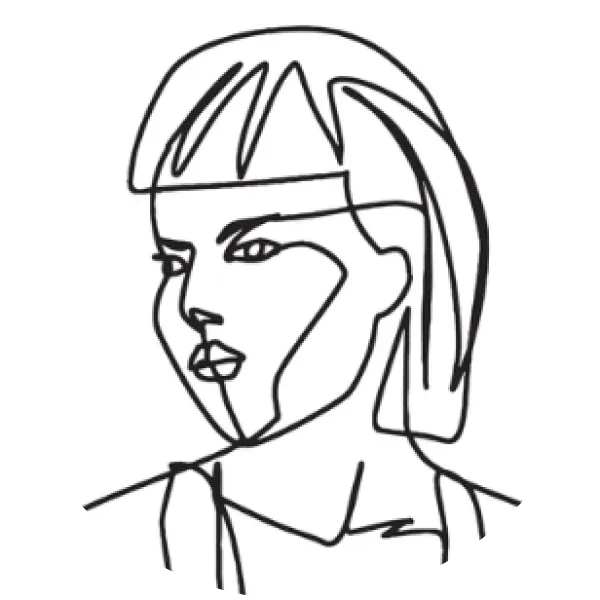
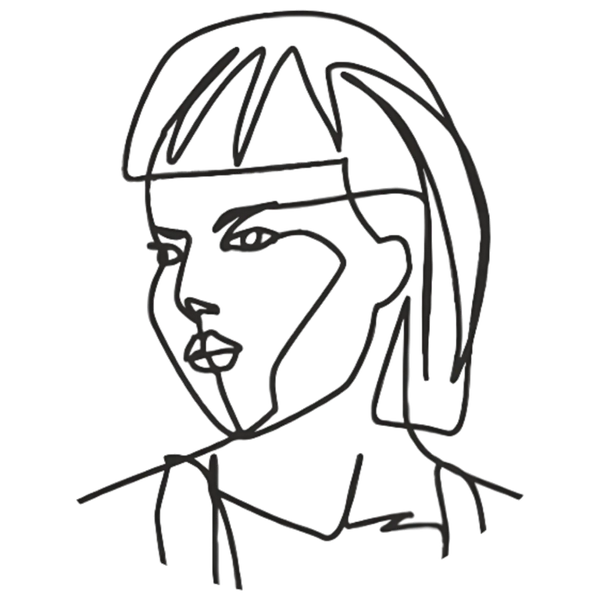
Use upscaled drawings and link LinkedIn in footer
- Replace mantis, Melp and Summer illustrations with the new upscaled art,
  converted to transparent line art and exported at 2x for sharp retina display
  (mantis re-framed to the original proportions so the hero layout is unchanged)
- Footer "LinkedIn" now opens linkedin.com/company/mantis-studio-ux in a new tab

Claude-Session: https://claude.ai/code/session_01UJs3XK3ELJzb1o4H9GKvfi

Changed region(s): [[0.12, 0.0, 0.87, 0.99]]

diff --git a/src/App.tsx b/src/App.tsx
@@ -158,7 +158,7 @@ export default function App() {
 
     <footer>
       <a className="logo" href="#">MANTIS STUDIO</a>
-      <div className="footer-links"><a href="#services">Services</a><a href="#projects">Projects</a><a href="#">LinkedIn</a></div>
+      <div className="footer-links"><a href="#services">Services</a><a href="#projects">Projects</a><a href="https://www.linkedin.com/company/mantis-studio-ux/" target="_blank" rel="noopener noreferrer">LinkedIn</a></div>
       <p>USA · © 2026</p>
     </footer>
   </>;
